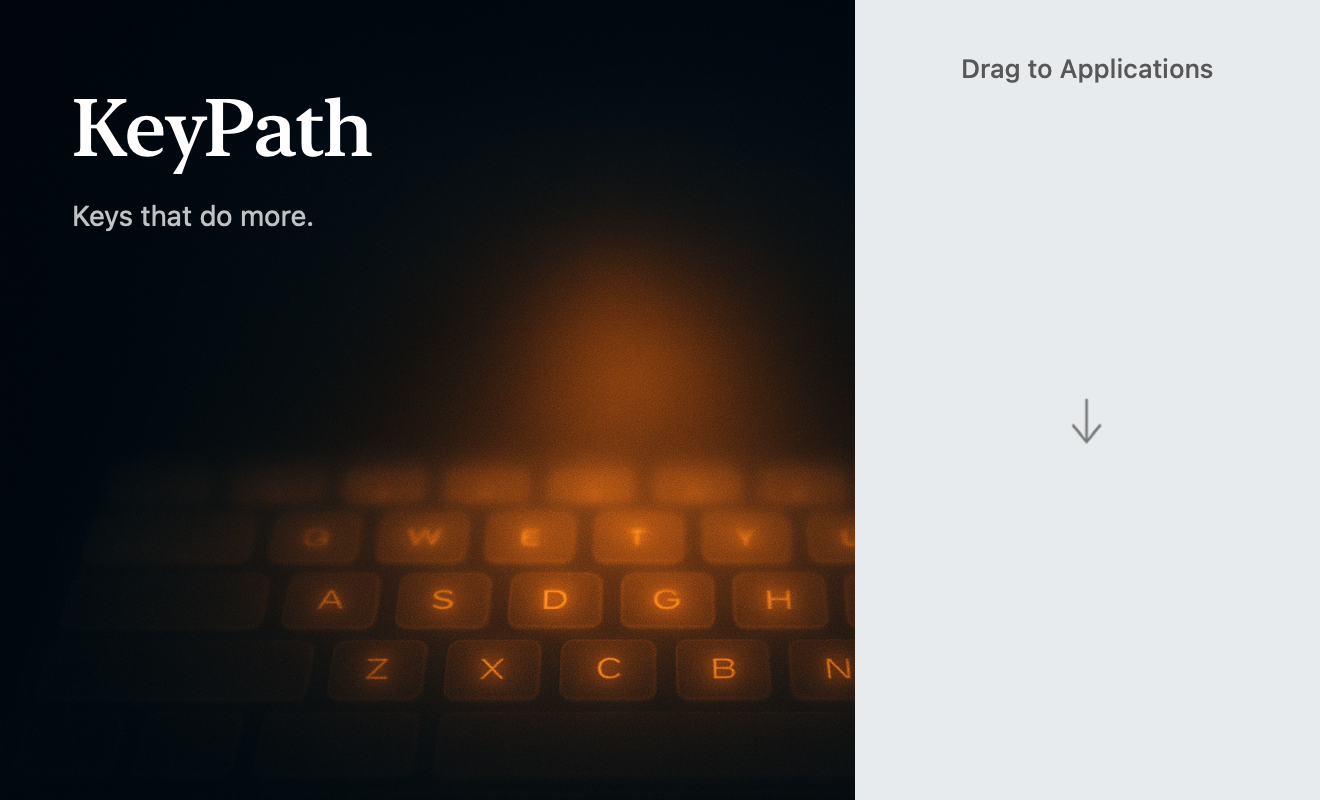
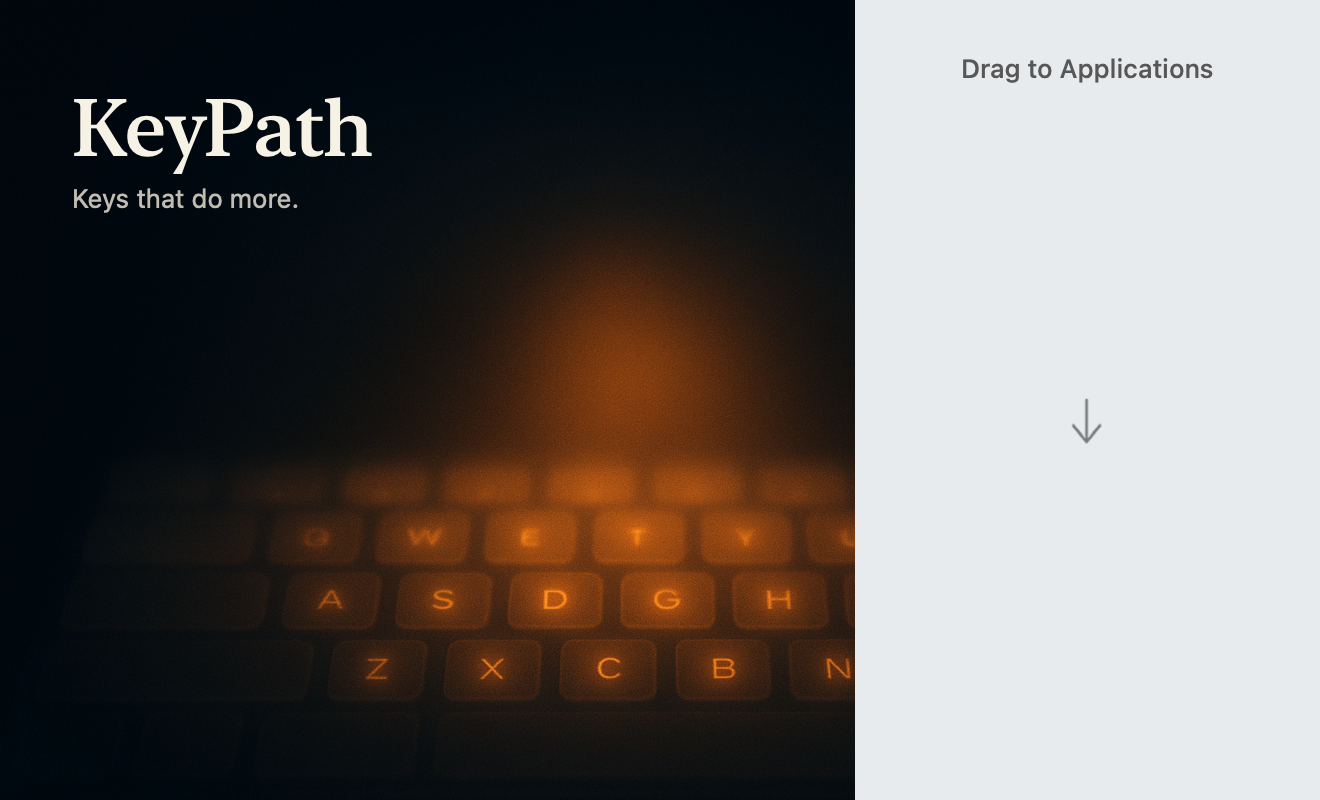
design: refine installer brand typography

Changed region(s): [[0.0311, 0.125, 0.2795, 0.2812]]

diff --git a/dev-tools/dmg/render-background.swift b/dev-tools/dmg/render-background.swift
@@ -23,10 +23,10 @@ func label(_ text: String, y: CGFloat, height: CGFloat, font: NSFont, color: NSC
                            withAttributes: [.font: font, .foregroundColor: color, .paragraphStyle: paragraph])
 }
 let serif = NSFont.systemFont(ofSize: 40, weight: .medium).fontDescriptor.withDesign(.serif)!
-label("KeyPath", y: 40, height: 54, font: NSFont(descriptor: serif, size: 40)!, color: .white)
-label("Keys that do more.", y: 99, height: 24,
-      font: .systemFont(ofSize: 14, weight: .regular),
-      color: NSColor(white: 0.76, alpha: 1))
+label("KeyPath", y: 40, height: 54, font: NSFont(descriptor: serif, size: 40)!, color: NSColor(red: 0.97, green: 0.95, blue: 0.90, alpha: 1))
+label("Keys that do more.", y: 91, height: 24,
+      font: .systemFont(ofSize: 13, weight: .regular),
+      color: NSColor(red: 0.76, green: 0.74, blue: 0.70, alpha: 1))
 if let arrow = NSImage(systemSymbolName: "arrow.down", accessibilityDescription: nil)?
     .withSymbolConfiguration(.init(pointSize: 22, weight: .light)) {
     let tinted = NSImage(size: arrow.size)

diff --git a/docs/testing/driverless-release-signoff.md b/docs/testing/driverless-release-signoff.md
@@ -542,3 +542,11 @@ preview verified; package signature, notarization, staple and Gatekeeper passed.
 Delivered `KeyPath-20261018-brand-refined.dmg` to Air Downloads with matching hash
[1 lines of base64/hex data omitted]
 Evidence: `/Users/malpern/keypath-review-evidence/20261018-installer-narrow/`.
+
+Typography refinement (2026-10-18): kept the 40-point serif wordmark, warmed it
+to ivory, moved the tagline from y99 to y91, reduced it from 14 to 13 points,
+and used warm gray. Finder rendering verified. Same tested app inside.
+Notarization `40739346-2453-45f6-adf2-f6897f7cab2c` accepted; staple and Gatekeeper
+passed. Air Downloads delivery `KeyPath-20261018-brand-final.dmg` verified against
[1 lines of base64/hex data omitted]
+Preview and evidence: `/Users/malpern/keypath-review-evidence/20261018-installer-type/`.
